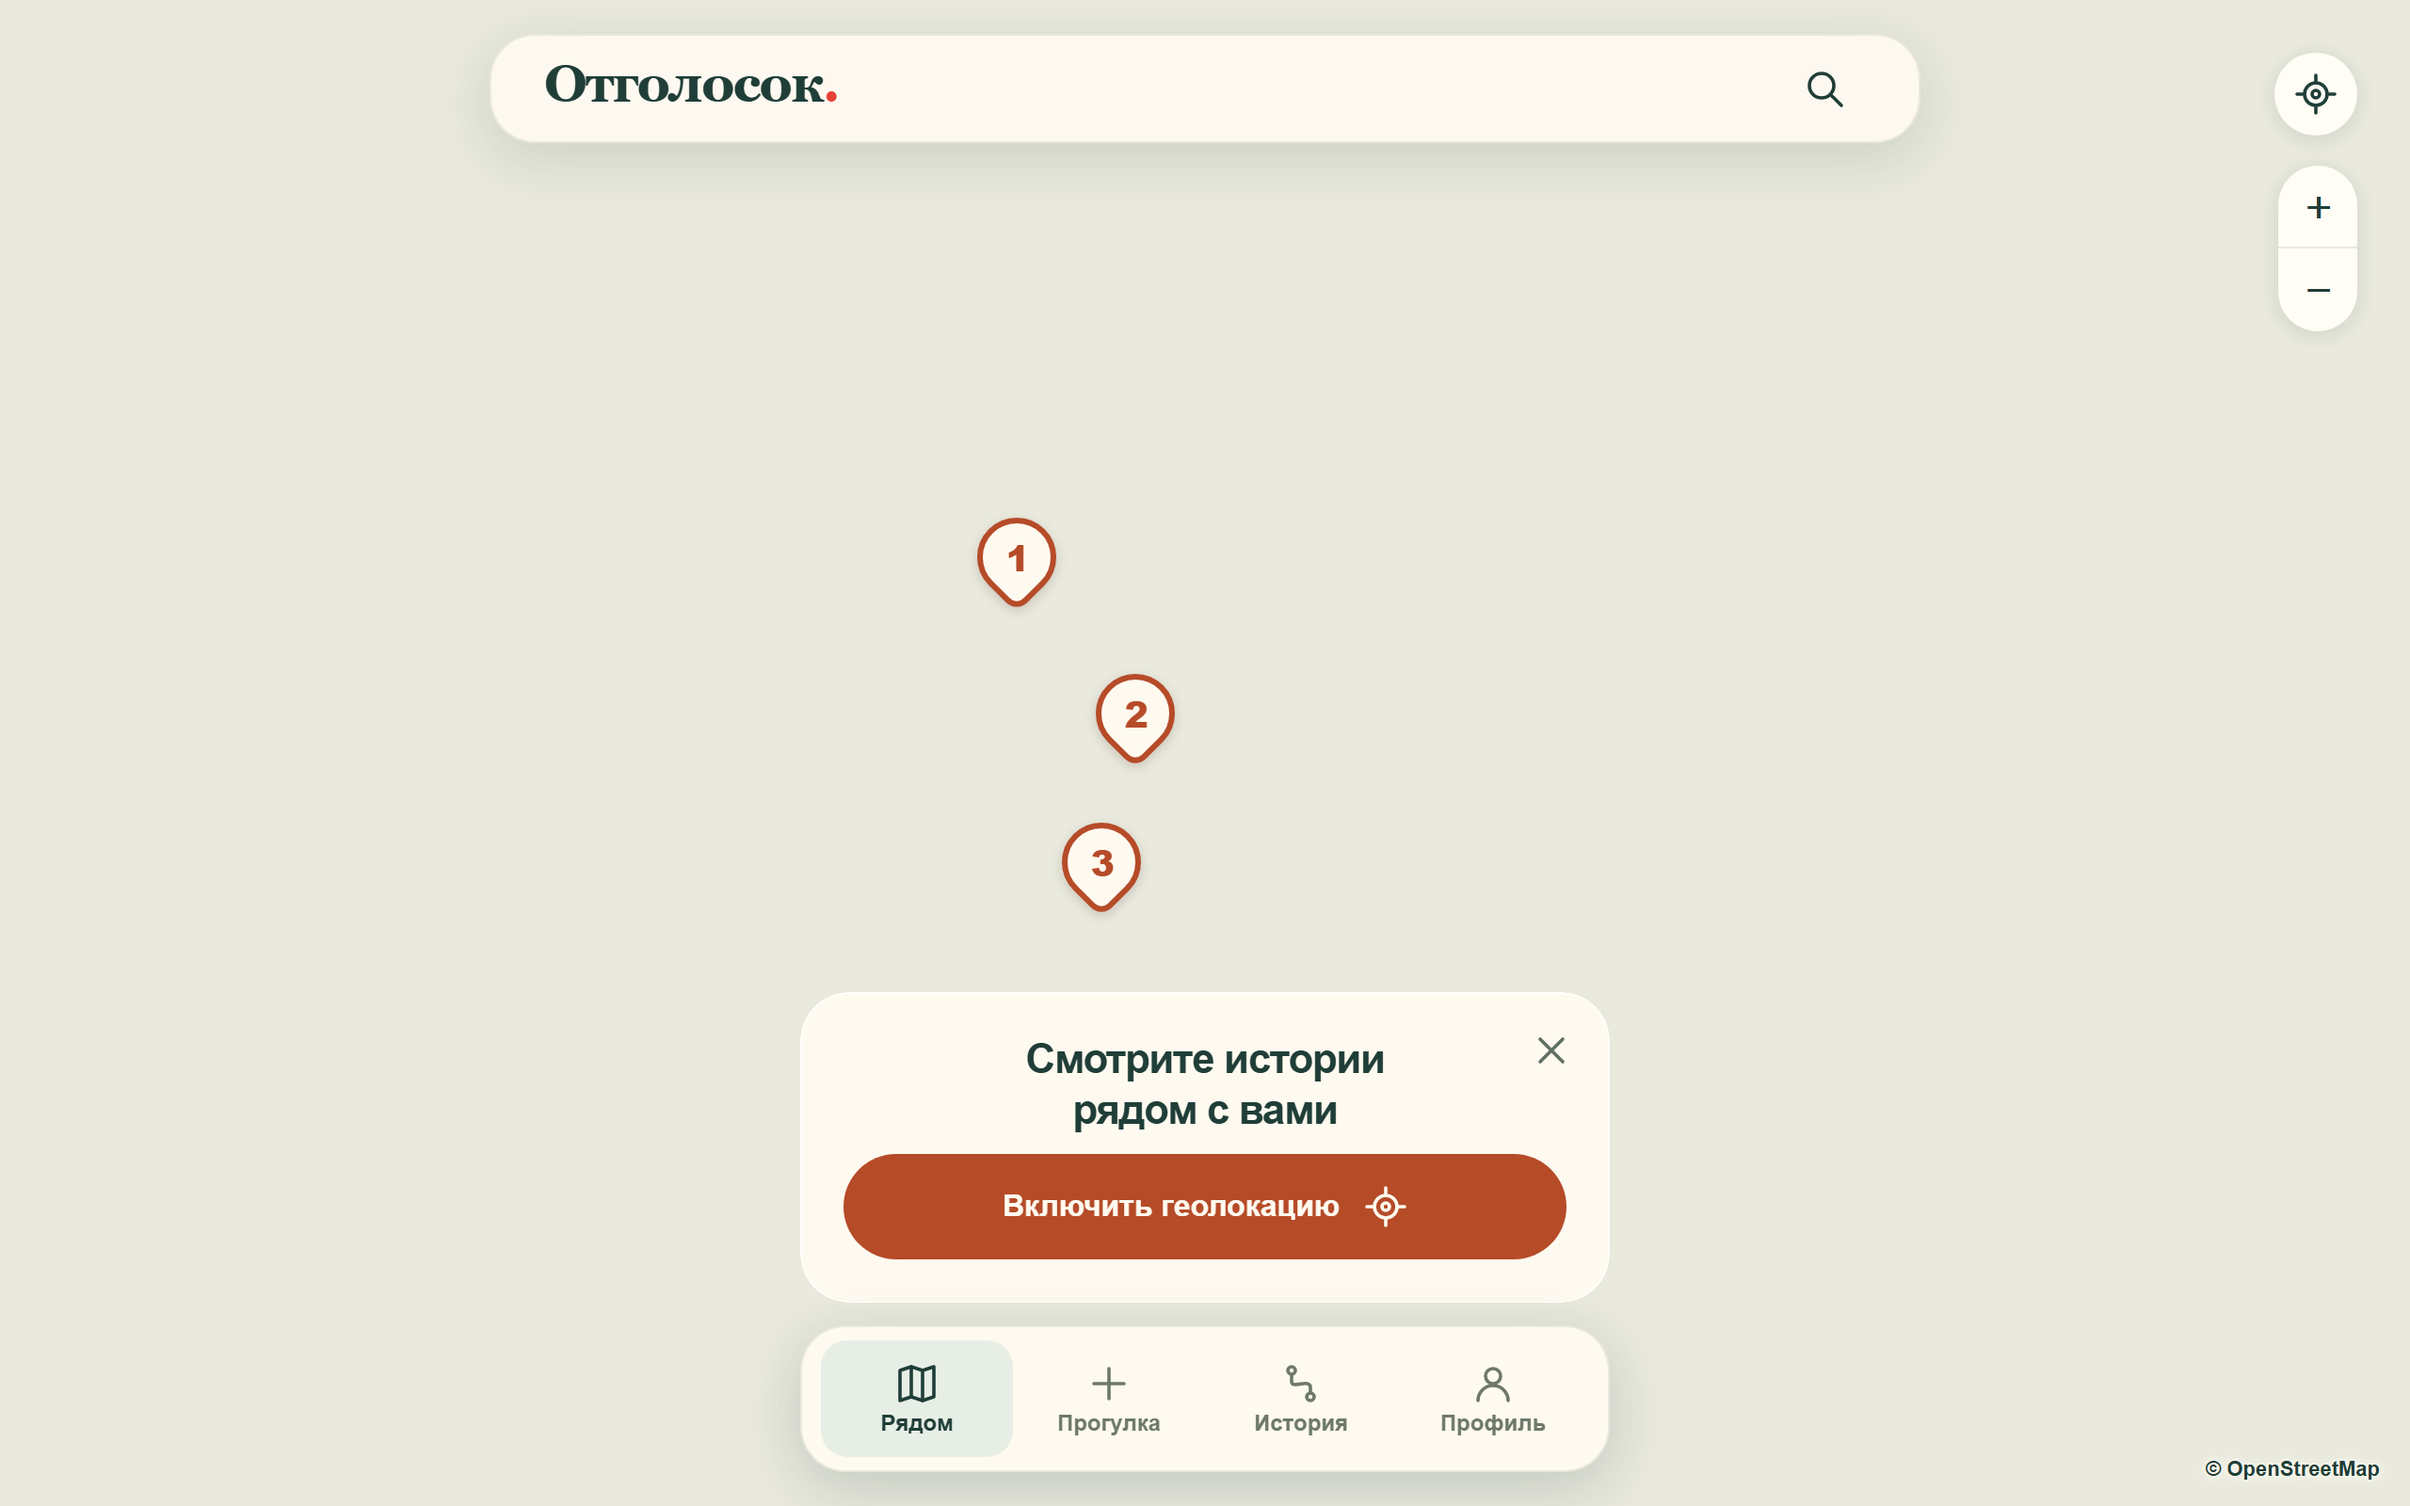
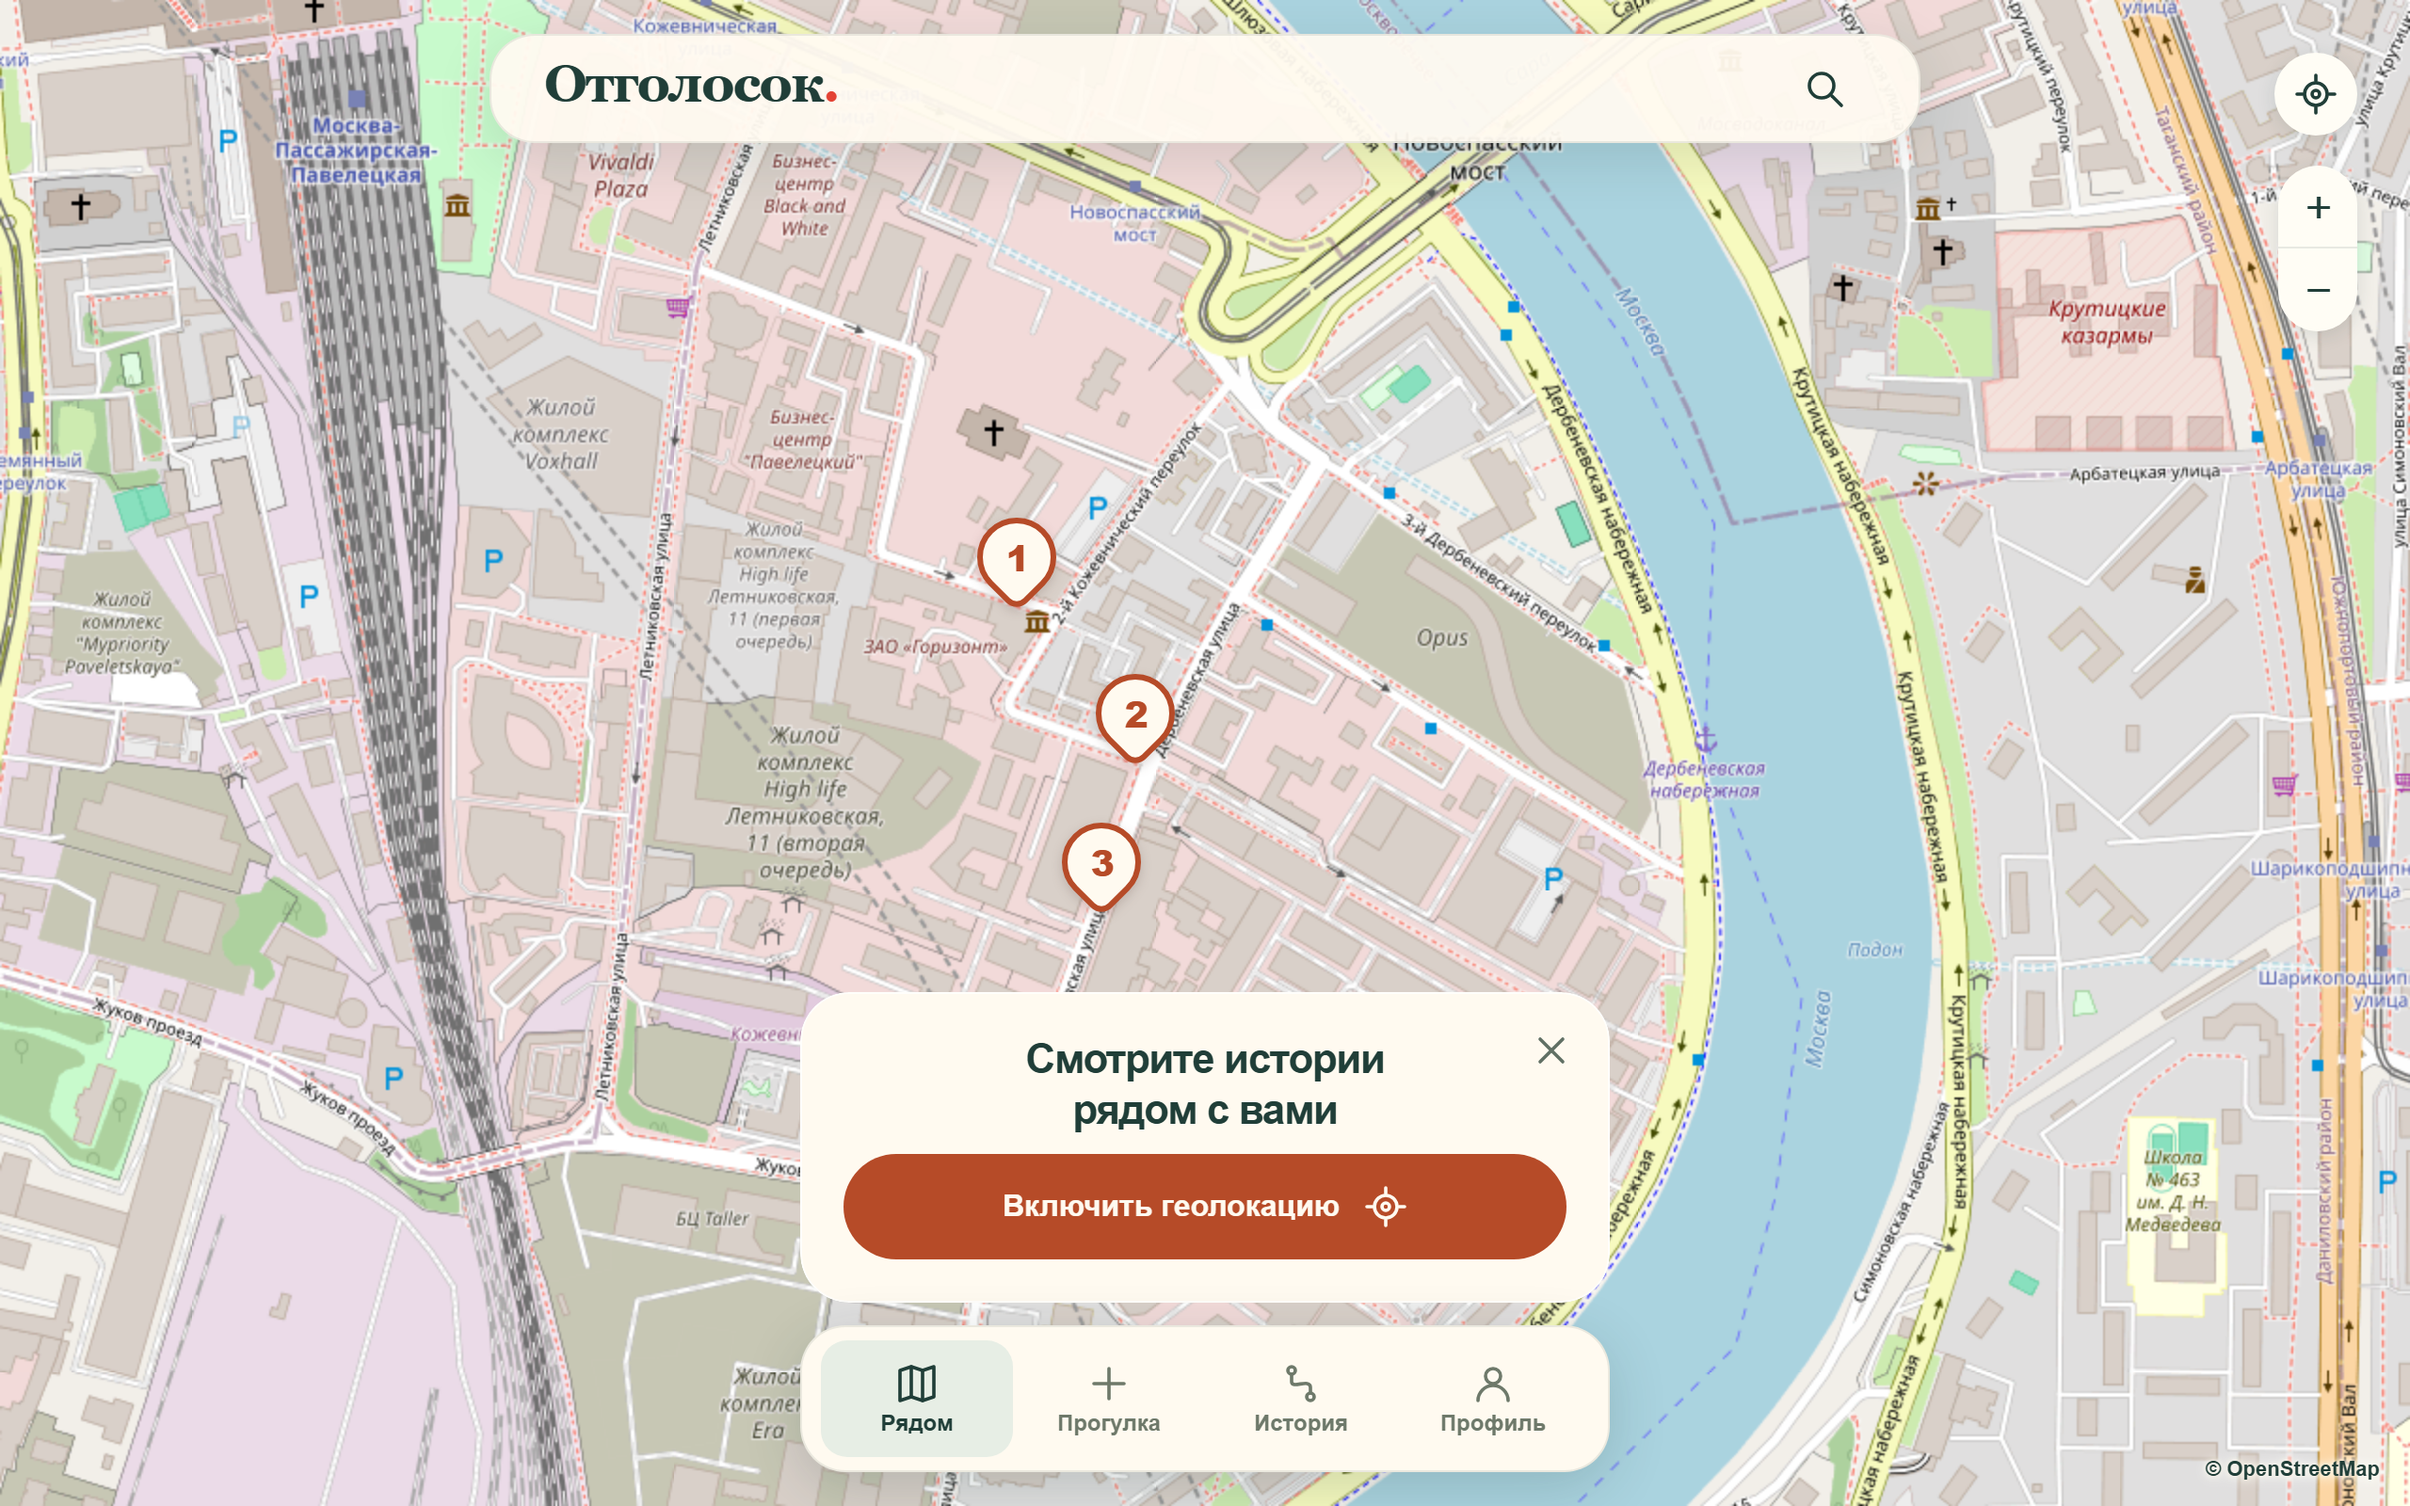
fix(video): не снимать главную до загрузки карты
Ожидание карты пропускалось, пока на странице не было плиток, а карта
главной подгружается лениво: кадр первого шага выходил с пустым фоном.
Теперь съёмка ждёт саму карту и затем загрузку плиток.

diff --git a/src/video/create-ad-timeline.test.ts b/src/video/create-ad-timeline.test.ts
@@ -1,5 +1,7 @@
 import {describe, expect, it} from "vitest";
-import {CREATE_AD_DURATION_IN_FRAMES, CREATE_AD_FPS, CREATE_AD_SCENES, CREATE_AD_TAPS, CREATE_AD_TRANSITION_FRAMES, getCreateAdFrameState, tapAt} from "./create-ad-timeline";
+import manifest from "../../video/assets/guide/create-ad/voice/manifest.json";
+import narration from "./create-ad-narration.json";
+import {CREATE_AD_DURATION_IN_FRAMES, CREATE_AD_FPS, CREATE_AD_SCENES, CREATE_AD_TAPS, CREATE_AD_TRANSITION_FRAMES, CREATE_AD_VOICE_FRAME, getCreateAdFrameState, tapAt} from "./create-ad-timeline";
 
 describe("реклама создания прогулки", () => {
   it("короче 30 секунд и идёт сценами без дыр", () => {
@@ -20,6 +22,13 @@ describe("реклама создания прогулки", () => {
         expect(getCreateAdFrameState(scene!.start + frame).id).toBe(id);
       }
     }
+  });
+
+  it("начинает фрагмент истории с 20-й секунды и договаривает его до конца ролика", () => {
+    expect(CREATE_AD_VOICE_FRAME / CREATE_AD_FPS).toBe(20);
+    // Клип озвучен по текущему тексту: иначе после правки текста в ролик попадёт старая фраза.
+    expect(manifest.story.text).toBe(narration.story);
+    expect(CREATE_AD_VOICE_FRAME + manifest.story.durationSeconds * CREATE_AD_FPS).toBeLessThanOrEqual(CREATE_AD_DURATION_IN_FRAMES);
   });
 
   it("сообщает о сцене без нажатия", () => {

diff --git a/src/video/otgolosok-create-ad.tsx b/src/video/otgolosok-create-ad.tsx
@@ -1,7 +1,7 @@
 import type {ReactNode} from "react";
-import {AbsoluteFill, Easing, Html5Audio, Img, interpolate, staticFile, useCurrentFrame} from "remotion";
+import {AbsoluteFill, Easing, Html5Audio, Img, Sequence, interpolate, staticFile, useCurrentFrame} from "remotion";
 import {SANS, SERIF} from "./guide-fonts";
-import {getCreateAdFrameState, tapAt, type CreateAdSceneId} from "./create-ad-timeline";
+import {CREATE_AD_VOICE_FRAME, getCreateAdFrameState, tapAt, type CreateAdSceneId} from "./create-ad-timeline";
 import {Chars, CutBands, DotGrid, Grain, Kicker, Ripples, ScreenCrop, TapMark, cream, deep, green, peach, pop, progress, rust, sage, swing, type ScreenRect} from "./motion-kit";
 
 // Снимки сценария «своя прогулка» из e2e/video-create-guide.spec.ts.
@@ -335,6 +335,9 @@ export function OtgolosokCreateAd() {
       <AbsoluteFill style={{background: "radial-gradient(circle at 50% 50%, transparent 60%, #00000055 100%)", pointerEvents: "none"}} />
       <Grain frame={frame} />
       <Html5Audio src={staticFile("motion/create-bed.wav")} volume={0.9} />
+      <Sequence from={CREATE_AD_VOICE_FRAME} name="Фрагмент истории">
+        <Html5Audio src={staticFile("guide/create-ad/voice/story.mp3")} volume={(audioFrame) => Math.min(1, audioFrame / 6)} />
+      </Sequence>
     </AbsoluteFill>
   );
 }

diff --git a/src/video/prepare-assets.test.ts b/src/video/prepare-assets.test.ts
@@ -65,11 +65,11 @@ describe("материалы моушн-ролика", () => {
     expect(motionScore()).toEqual({seconds: 30, cuts: [4, 9, 16, 23, 26], duck: [16, 23], groove: 4, finale: 26, taps: []});
   });
 
-  it("ставит щелчки на нажатия рекламы создания прогулки и не приглушает музыку без голоса", () => {
+  it("ставит щелчки на нажатия рекламы создания прогулки и приглушает музыку под фрагментом истории", () => {
     expect(createAdScore()).toEqual({
       seconds: 25.5,
       cuts: [2.5, 7.5, 12.5, 18, 22],
-      duck: null,
+      duck: [20, 25.5],
       groove: 2.5,
       finale: 22,
       taps: [(75 + 48) / 30, (225 + 52) / 30, (375 + 38) / 30, (540 + 20) / 30],

diff --git a/src/video/create-ad-timeline.ts b/src/video/create-ad-timeline.ts
@@ -14,6 +14,9 @@ export const getCreateAdFrameState = timeline.frameState;
 /** Кадры нажатий внутри сцен; по ним же синтезируются щелчки в музыке. */
 export const CREATE_AD_TAPS = config.taps as Partial<Record<CreateAdSceneId, number[]>>;
 
+/** Кадр ролика, с которого звучит фрагмент истории; музыка под ним приглушается. */
+export const CREATE_AD_VOICE_FRAME: number = config.voice;
+
 export function tapAt(id: CreateAdSceneId): number {
   const frame = CREATE_AD_TAPS[id]?.[0];
   if (frame === undefined) throw new Error(`В сцене «${id}» нет нажатия`);

diff --git a/docs/agents/create-ad-video.md b/docs/agents/create-ad-video.md
@@ -23,7 +23,14 @@
 Музыку синтезирует `motionBedWav` при `video:prepare` по
 `src/video/create-ad-scenes.json`: удары на склейках и щелчки в кадрах `taps`.
 Нажатие на экране и щелчок берутся из одного поля, поэтому меняйте кадр нажатия
-только там. Голоса нет. Контрольная громкость: mean около −22 дБ, max около −7 дБ.
+только там. Контрольная громкость: mean около −22 дБ, max около −7 дБ.
+
+С 20-й секунды (поле `voice` в кадрах) звучит фрагмент истории Старого Английского
+двора, музыка под ним приглушена до конца ролика. Текст — в
+`src/video/create-ad-narration.json`, готовый клип и `manifest.json` — в
+`video/assets/guide/create-ad/voice/`, озвучка через `pnpm video:voice` (F5, нужны
+`TTS_API_URL` и `TTS_API_TOKEN` в `.env`). До конца ролика остаётся 5,5 с: тест
+`create-ad-timeline.test.ts` падает, если клип длиннее или озвучен по старому тексту.
 
 ```bash
 pnpm video:render:create-ad
